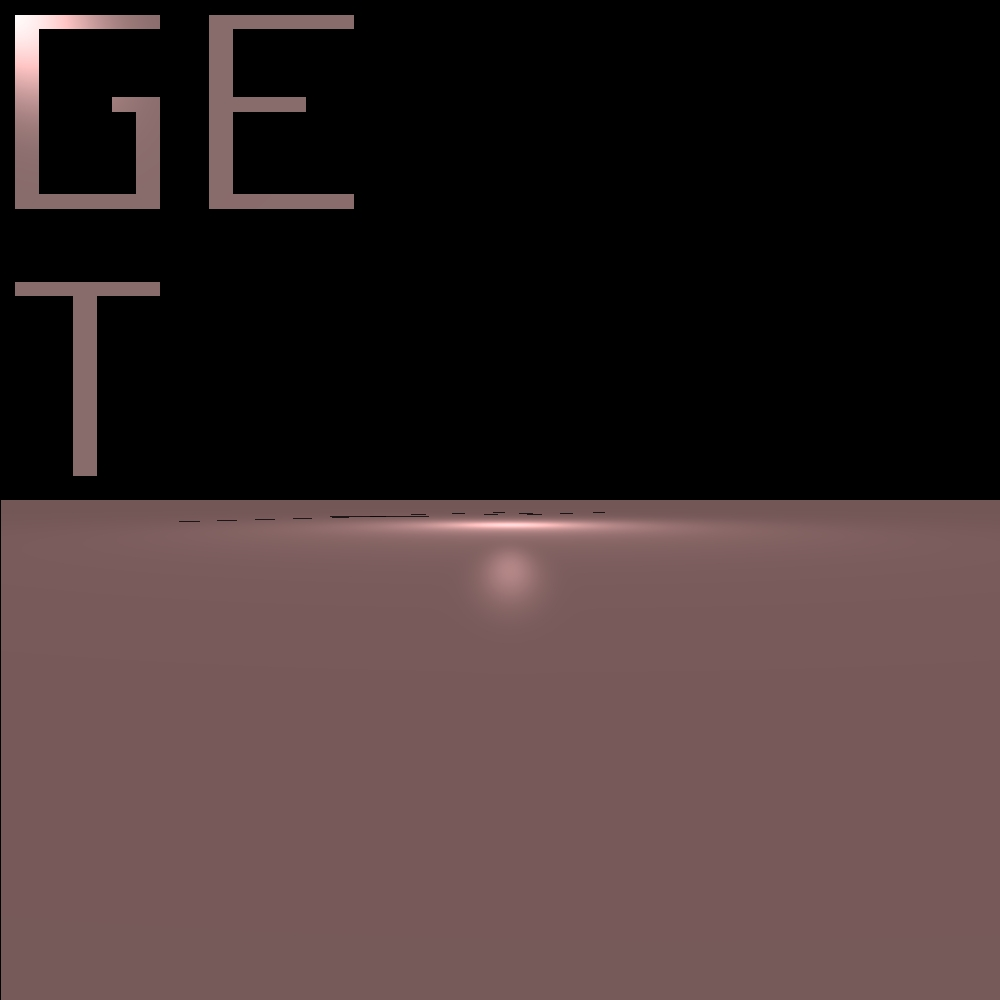
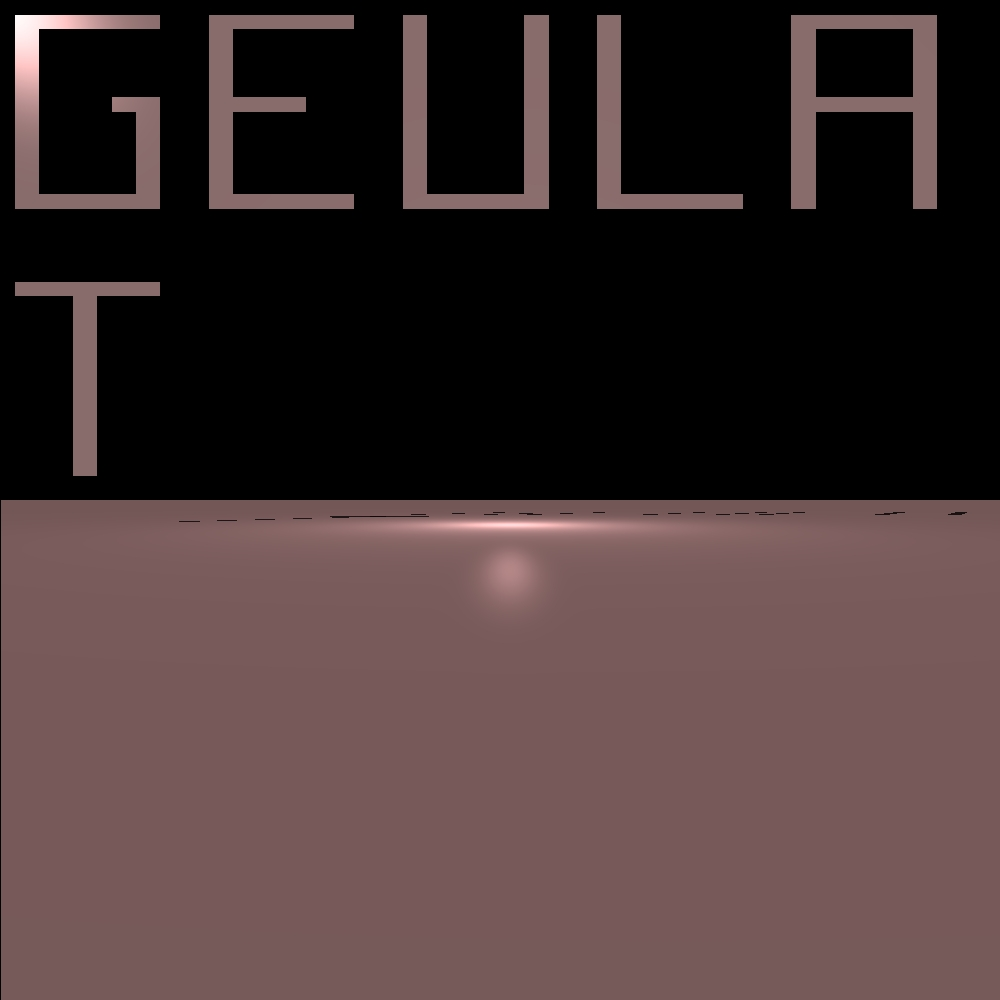
geula

Changed region(s): [[0.775, 0.0, 0.961, 0.217], [0.403, 0.0, 0.558, 0.217], [0.589, 0.0, 0.744, 0.217]]

diff --git a/MavoProject/src/unittests/MiniProject2.java b/MavoProject/src/unittests/MiniProject2.java
@@ -36,10 +36,10 @@ public class MiniProject2 {
 				new Vector(0, 1, 0));
 		
 		Polygon g1 = new Polygon(new Color(20, 20, 20), new Material(0.5, 0.5, 300, 0.2, 0), //
-				new Point3D(-1000, -1000, 30), 
-				new Point3D(-950, -1000, 30),
-				new Point3D(-950, -600, 30),
-				new Point3D(-1000, -600, 30));
+				new Point3D(-1000, -1000, 30),//top left 
+				new Point3D(-950, -1000, 30),//top right
+				new Point3D(-950, -600, 30), //bottom right
+				new Point3D(-1000, -600, 30)); // bottom left
 		
 		Polygon g2 = new Polygon(new Color(20, 20, 20), new Material(0.5, 0.5, 300, 0.2, 0), //
 				new Point3D(-970, -1000, 30),//top left
@@ -91,15 +91,80 @@ public class MiniProject2 {
 				new Point3D(-600, -600, 30)// bottom left
 				);
 		Polygon e4 = new Polygon(new Color(20, 20, 20), new Material(0.5, 0.5, 300, 0.2, 0), //
-				new Point3D(-600, -1000, 30), 
-				new Point3D(-550, -1000, 30),
-				new Point3D(-550, -600, 30),
-				new Point3D(-600, -600, 30));
+				new Point3D(-600, -1000, 30), //top left
+				new Point3D(-550, -1000, 30),//top right
+				new Point3D(-550, -600, 30),//bottom right
+				new Point3D(-600, -600, 30)); // bottom left
 		
 		Geometries e_group =new Geometries(e1,e2, e3, e4);
 
 		
 		
+		Polygon u1 = new Polygon(new Color(20, 20, 20), new Material(0.5, 0.5, 300, 0.2, 0), //
+				new Point3D(-200, -1000, 30), //top left
+				new Point3D(-150, -1000, 30),//top right
+				new Point3D(-150, -600, 30),//bottom right
+				new Point3D(-200, -600, 30)); // bottom left
+		Polygon u2 = new Polygon(new Color(20, 20, 20), new Material(0.5, 0.5, 300, 0.2, 0), //
+				new Point3D(-200, -630, 30),//top left
+				new Point3D(100, -630, 30),//top right
+				new Point3D(100, -600, 30), //bottom right
+				new Point3D(-200, -600, 30)// bottom left
+				);
+		Polygon u3 = new Polygon(new Color(20, 20, 20), new Material(0.5, 0.5, 300, 0.2, 0), //
+				new Point3D(50, -1000, 30), //top left
+				new Point3D(100, -1000, 30),//top right
+				new Point3D(100, -600, 30),//bottom right
+				new Point3D(50, -600, 30)); // bottom left
+		Geometries u_group =new Geometries(u1, u2 ,u3);
+
+		
+		Polygon l1 = new Polygon(new Color(20, 20, 20), new Material(0.5, 0.5, 300, 0.2, 0), //
+				new Point3D(200, -1000, 30), //top left
+				new Point3D(250, -1000, 30),//top right
+				new Point3D(250, -600, 30),//bottom right
+				new Point3D(200, -600, 30)); // bottom left
+		
+		Polygon l2 = new Polygon(new Color(20, 20, 20), new Material(0.5, 0.5, 300, 0.2, 0), //
+				new Point3D(200, -630, 30),//top left
+				new Point3D(500, -630, 30),//top right
+				new Point3D(500, -600, 30), //bottom right
+				new Point3D(200, -600, 30)// bottom left
+				);
+		
+		Geometries l_group =new Geometries(l1, l2);
+		
+		
+		
+		Polygon a1 = new Polygon(new Color(20, 20, 20), new Material(0.5, 0.5, 300, 0.2, 0), //
+				new Point3D(600, -1000, 30), //top left
+				new Point3D(650, -1000, 30),//top right
+				new Point3D(650, -600, 30),//bottom right
+				new Point3D(600, -600, 30)); // bottom left
+		
+		Polygon a2 = new Polygon(new Color(20, 20, 20), new Material(0.5, 0.5, 300, 0.2, 0), //
+				new Point3D(600, -1000, 30),//top left
+				new Point3D(850, -1000, 30),//top right
+				new Point3D(850, -970, 30), //bottom right
+				new Point3D(600, -970, 30)// bottom left
+
+				);
+		Polygon a3 = new Polygon(new Color(20, 20, 20), new Material(0.5, 0.5, 300, 0.2, 0), //
+				new Point3D(600, -830, 30),//top left
+				new Point3D(850, -830, 30),//top right
+				new Point3D(850, -800, 30), //bottom right
+				new Point3D(600, -800, 30)// bottom left
+
+				);
+		Polygon a4 = new Polygon(new Color(20, 20, 20), new Material(0.5, 0.5, 300, 0.2, 0), //
+				new Point3D(850, -1000, 30), //top left
+				new Point3D(900, -1000, 30),//top right
+				new Point3D(900, -600, 30),//bottom right
+				new Point3D(850, -600, 30)); // bottom left
+		
+		Geometries a_group =new Geometries(a1, a2, a3,a4);
+
+
 		Polygon t1 = new Polygon(new Color(20, 20, 20), new Material(0.5, 0.5, 300, 0.2, 0), //
 				new Point3D(-1000, -450, 30),//top left
 				new Point3D(-700, -450, 30),//top right
@@ -137,6 +202,9 @@ public class MiniProject2 {
 				plane,
 				g_group,
 				e_group,
+				u_group,
+				l_group,
+				a_group,	
 				t_group
 				);
 		
